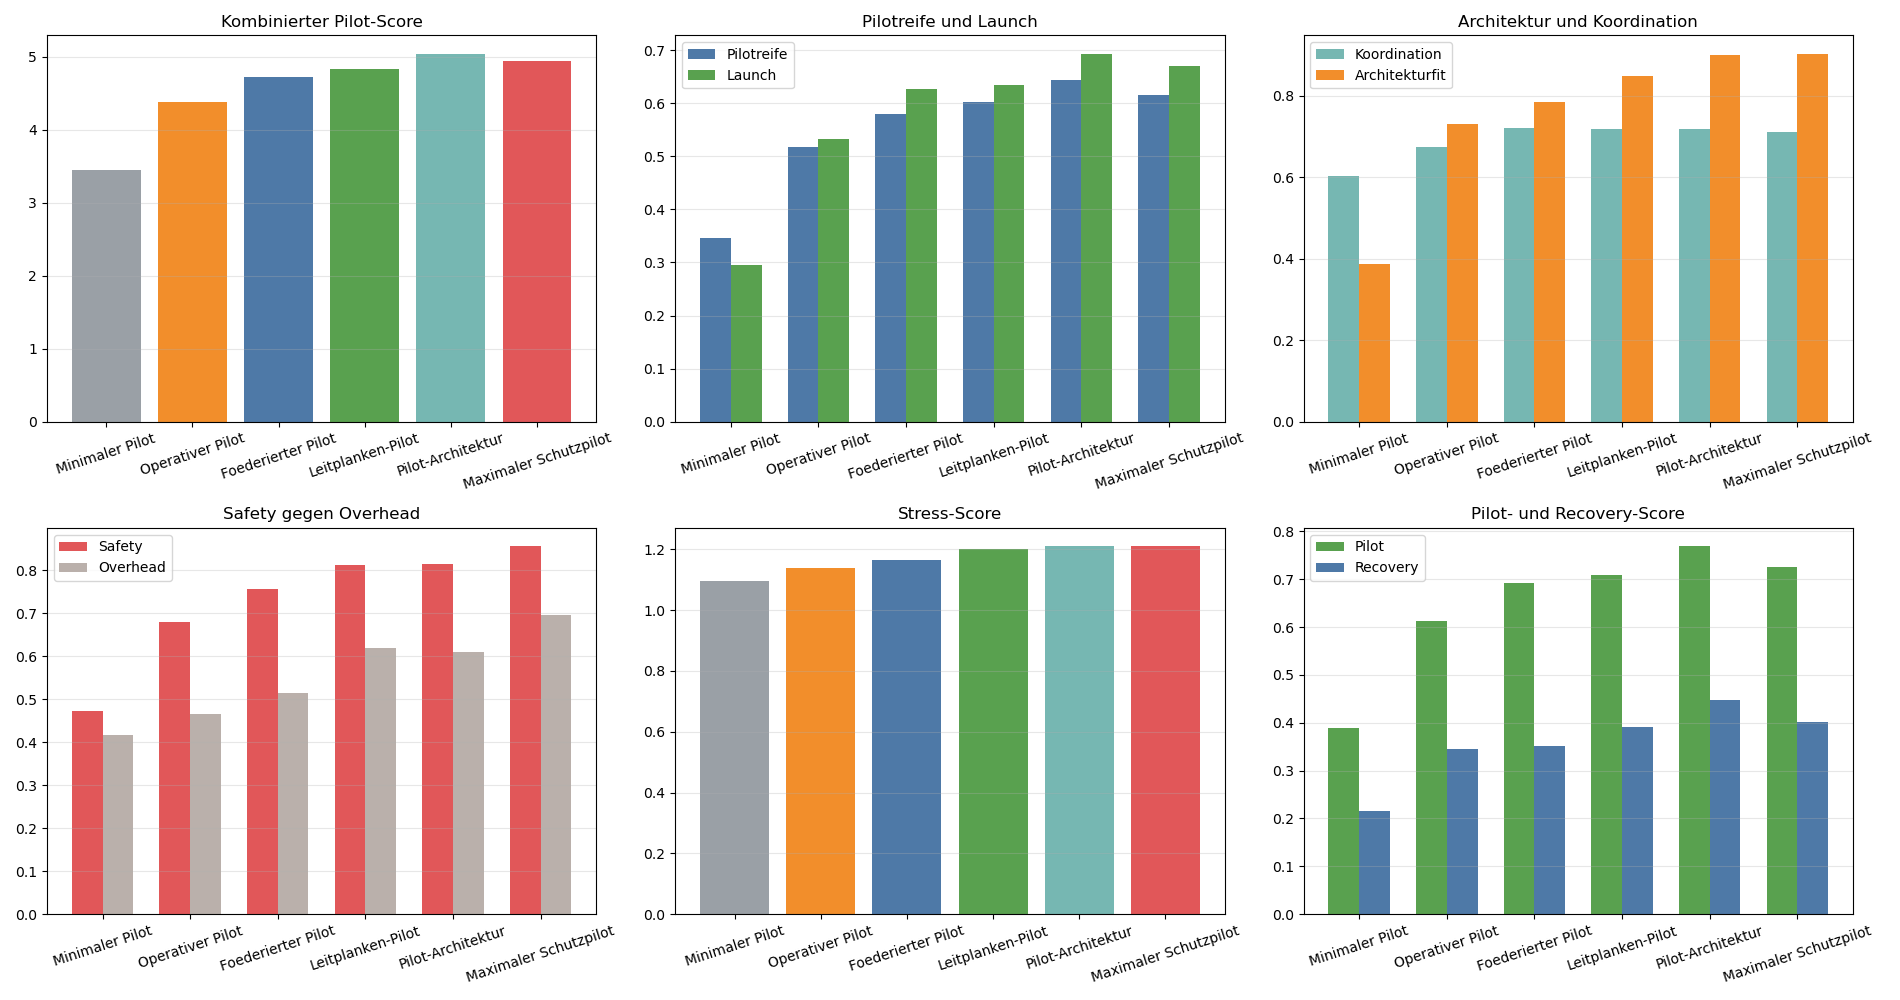
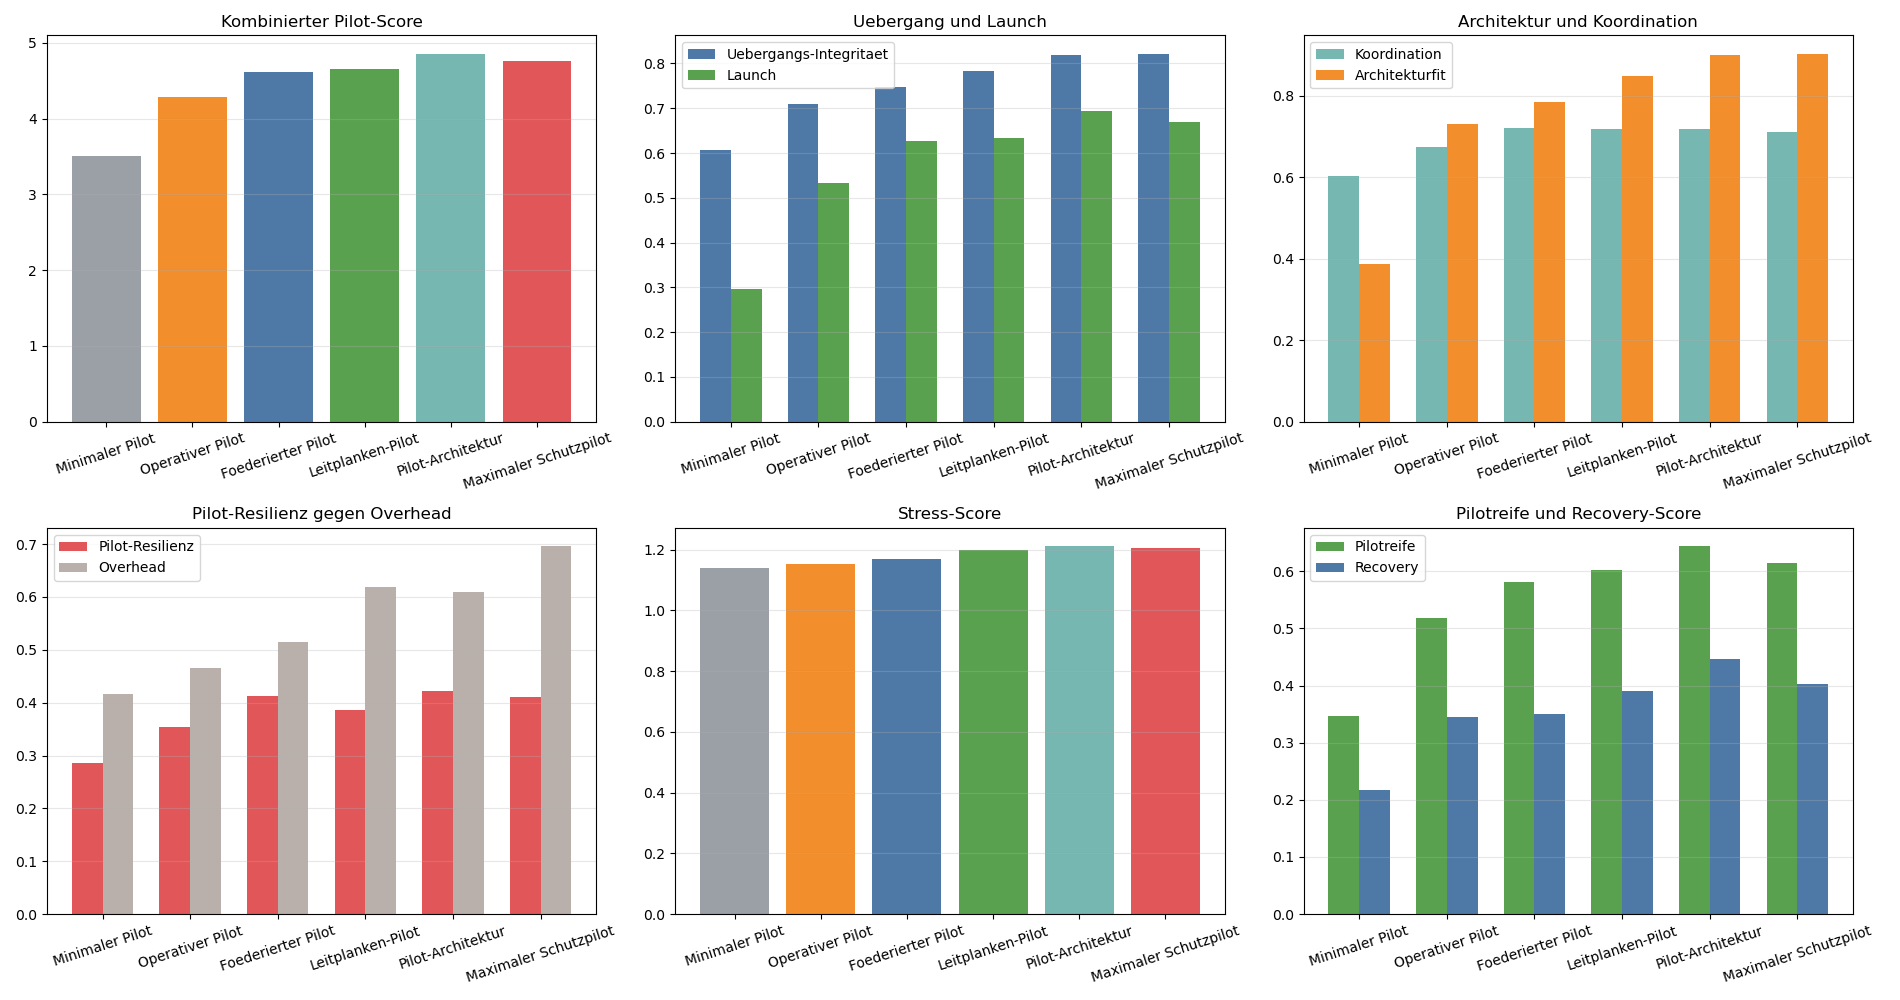
Refine pilot architecture transition metrics

diff --git a/schwarm_bauphasen_pilot.py b/schwarm_bauphasen_pilot.py
@@ -358,6 +358,17 @@ def pilot_metrics(config, result, params, profile):
             ]
         )
     )
+    pilot_overhead = clamp01(
+        mittelwert(
+            [
+                normalize(config.get('resource_share_factor', 0.28), 0.28, 0.30),
+                integration_score,
+                safety_score,
+                1.0 - readiness_score,
+                profile['bias']['overhead'],
+            ]
+        )
+    )
     pilot_readiness = clamp01(
         mittelwert(
             [
@@ -370,14 +381,14 @@ def pilot_metrics(config, result, params, profile):
             ]
         )
     )
-    pilot_overhead = clamp01(
+    transition_integrity = clamp01(
         mittelwert(
             [
-                normalize(config.get('resource_share_factor', 0.28), 0.28, 0.30),
-                integration_score,
-                safety_score,
-                1.0 - readiness_score,
-                profile['bias']['overhead'],
+                architecture_fit,
+                coordination_quality,
+                safety_posture,
+                1.0 - workflow.get('misinformation_corruption_mean', 0.0),
+                traceability,
             ]
         )
     )
@@ -389,6 +400,17 @@ def pilot_metrics(config, result, params, profile):
                 workflow.get('sync_strength_mean', 0.0),
                 1.0 - workflow.get('bottleneck_rate', 0.0),
                 safety_score,
+            ]
+        )
+    )
+    pilot_resilience = clamp01(
+        mittelwert(
+            [
+                pilot_readiness,
+                recovery_strength,
+                launch_readiness,
+                workflow.get('sync_strength_mean', 0.0),
+                1.0 - pilot_overhead,
             ]
         )
     )
@@ -413,6 +435,8 @@ def pilot_metrics(config, result, params, profile):
         'coordination_quality': coordination_quality,
         'safety_posture': safety_posture,
         'pilot_readiness': pilot_readiness,
+        'transition_integrity': transition_integrity,
+        'pilot_resilience': pilot_resilience,
         'pilot_overhead': pilot_overhead,
         'recovery_strength': recovery_strength,
     }
@@ -480,25 +504,24 @@ def context_score(kontext_name, result, agent_count):
     if kontext_name == 'stress':
         return (
             base
-            + 0.18 * metrics['safety_posture']
-            + 0.14 * metrics['pilot_readiness']
-            + 0.08 * metrics['recovery_strength']
-            - 0.12 * metrics['corruption_mean']
+            + 0.18 * metrics['transition_integrity']
+            + 0.14 * metrics['pilot_resilience']
+            + 0.08 * metrics['safety_posture']
             - 0.10 * metrics['pilot_overhead']
         )
     if kontext_name == 'recovery':
         return (
             base
-            + 0.20 * metrics['recovery_strength']
-            + 0.12 * metrics['safety_posture']
-            + 0.08 * metrics['pilot_readiness']
+            + 0.20 * metrics['pilot_resilience']
+            + 0.12 * metrics['transition_integrity']
+            + 0.08 * metrics['safety_posture']
             - 0.12 * failed_share
             - 0.08 * metrics['pilot_overhead']
         )
     return (
-        metrics['pilot_readiness']
+        metrics['pilot_resilience']
         + 0.18 * metrics['launch_readiness']
-        + 0.12 * metrics['safety_posture']
+        + 0.12 * metrics['transition_integrity']
         - 0.12 * metrics['pilot_overhead']
     )
 
@@ -511,6 +534,8 @@ def summarize_runs(runs, profile, context_list, agent_count):
         'coordination_quality': {},
         'safety_posture': {},
         'pilot_readiness': {},
+        'transition_integrity': {},
+        'pilot_resilience': {},
         'pilot_overhead': {},
         'recovery_strength': {},
     }
@@ -566,8 +591,8 @@ def main():
         summaries.append(summary)
         print(
             f"{summary['label']:<28} Score={summary['combined_score']:+.3f} | "
-            f"Pilot={summary['pilot_readiness']['pilot']:.2f} | "
-            f"Safety={summary['safety_posture']['stress']:.2f} | "
+            f"Uebergang={summary['transition_integrity']['stress']:.2f} | "
+            f"Pilot-Resilienz={summary['pilot_resilience']['pilot']:.2f} | "
             f"Launch={summary['launch_readiness']['operations']:.2f}"
         )
 
@@ -580,9 +605,9 @@ def main():
         f"Delta zum minimalen Piloten {best['combined_score'] - baseline['combined_score']:+.3f}"
     )
     print(
-        f"Pilotreife {best['pilot_readiness']['pilot']:.2f}, "
-        f"Safety {best['safety_posture']['stress']:.2f}, "
-        f"Recovery {best['recovery_strength']['recovery']:.2f}"
+        f"Uebergangs-Integritaet {best['transition_integrity']['stress']:.2f}, "
+        f"Launch {best['launch_readiness']['operations']:.2f}, "
+        f"Pilot-Resilienz {best['pilot_resilience']['pilot']:.2f}"
     )
 
     labels = [item['label'] for item in summaries]
@@ -600,9 +625,9 @@ def main():
 
     axes[0, 1].bar(
         x - width / 2,
-        [item['pilot_readiness']['pilot'] for item in summaries],
+        [item['transition_integrity']['stress'] for item in summaries],
         width,
-        label='Pilotreife',
+        label='Uebergangs-Integritaet',
         color='#4e79a7',
     )
     axes[0, 1].bar(
@@ -612,7 +637,7 @@ def main():
         label='Launch',
         color='#59a14f',
     )
-    axes[0, 1].set_title('Pilotreife und Launch')
+    axes[0, 1].set_title('Uebergang und Launch')
     axes[0, 1].set_xticks(x)
     axes[0, 1].set_xticklabels(labels, rotation=18)
     axes[0, 1].legend()
@@ -640,9 +665,9 @@ def main():
 
     axes[1, 0].bar(
         x - width / 2,
-        [item['safety_posture']['stress'] for item in summaries],
+        [item['pilot_resilience']['pilot'] for item in summaries],
         width,
-        label='Safety',
+        label='Pilot-Resilienz',
         color='#e15759',
     )
     axes[1, 0].bar(
@@ -652,7 +677,7 @@ def main():
         label='Overhead',
         color='#bab0ab',
     )
-    axes[1, 0].set_title('Safety gegen Overhead')
+    axes[1, 0].set_title('Pilot-Resilienz gegen Overhead')
     axes[1, 0].set_xticks(x)
     axes[1, 0].set_xticklabels(labels, rotation=18)
     axes[1, 0].legend()
@@ -666,9 +691,9 @@ def main():
 
     axes[1, 2].bar(
         x - width / 2,
-        [item['context_scores']['pilot'] for item in summaries],
+        [item['pilot_readiness']['pilot'] for item in summaries],
         width,
-        label='Pilot',
+        label='Pilotreife',
         color='#59a14f',
     )
     axes[1, 2].bar(
@@ -678,7 +703,7 @@ def main():
         label='Recovery',
         color='#4e79a7',
     )
-    axes[1, 2].set_title('Pilot- und Recovery-Score')
+    axes[1, 2].set_title('Pilotreife und Recovery-Score')
     axes[1, 2].set_xticks(x)
     axes[1, 2].set_xticklabels(labels, rotation=18)
     axes[1, 2].legend()
